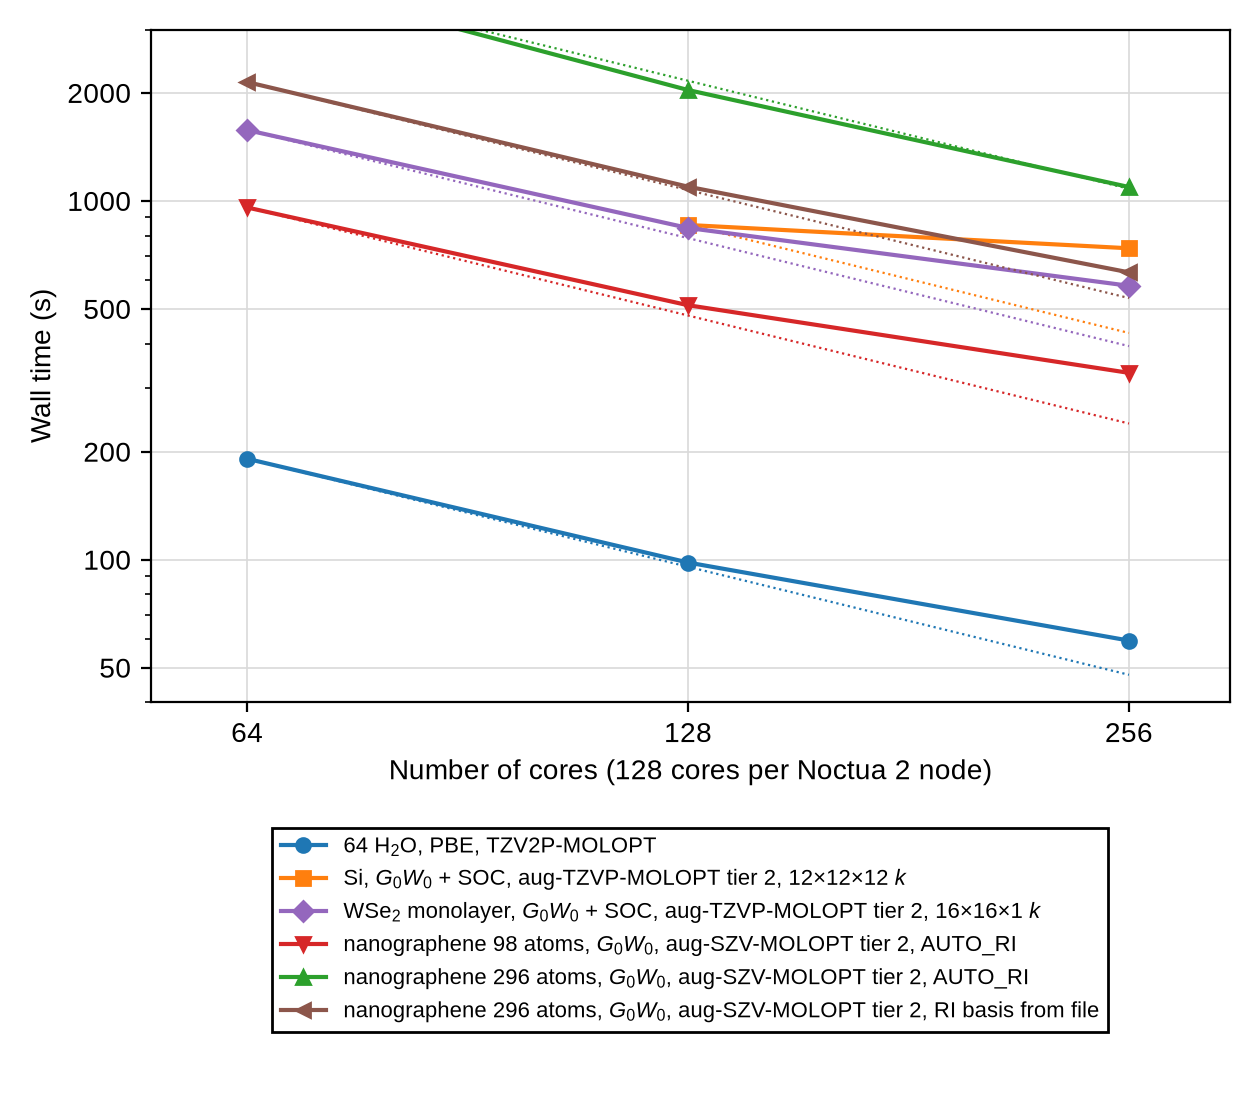
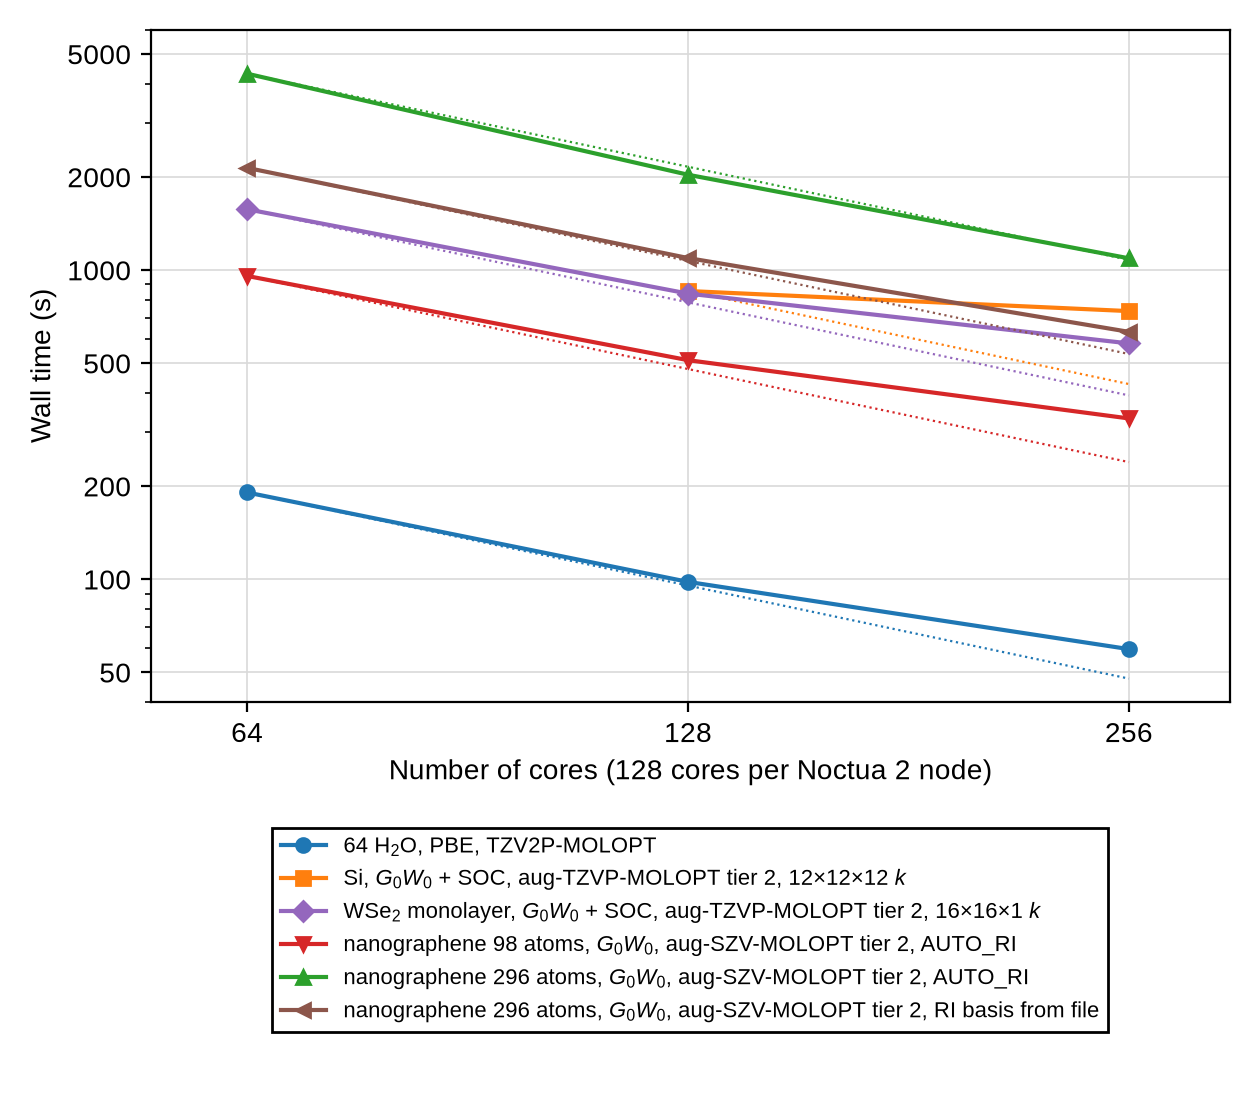
Scaling figure: y axis up to 6000 s for the half-node 296-atom run; caption for the dotted lines

diff --git a/scripts/plot_benchmarks.py b/scripts/plot_benchmarks.py
@@ -24,8 +24,8 @@ LEGEND = dict(frameon=True, fancybox=False, edgecolor="black", facecolor="white"
 
 CASES = [  # folder, label, colour, marker
     ("water_64_PBE_TZV2P", "64 H$_2$O, PBE, TZV2P-MOLOPT", "#1f77b4", "o"),
-    ("Si_GW_aug-TZ2", "Si, $G_0W_0$, aug-TZVP-MOLOPT tier 2, 12$\\times$12$\\times$12 $k$", "#ff7f0e", "s"),
-    ("WSe2_monolayer_GW_aug-TZ2", "WSe$_2$ monolayer, $G_0W_0$, aug-TZVP-MOLOPT tier 2, 16$\\times$16$\\times$1 $k$", "#9467bd", "D"),
+    ("Si_GW_aug-TZ2", "Si, $G_0W_0$ + SOC, aug-TZVP-MOLOPT tier 2, 12$\\times$12$\\times$12 $k$", "#ff7f0e", "s"),
+    ("WSe2_monolayer_GW_aug-TZ2", "WSe$_2$ monolayer, $G_0W_0$ + SOC, aug-TZVP-MOLOPT tier 2, 16$\\times$16$\\times$1 $k$", "#9467bd", "D"),
     ("nanographene_L5_GW_aug-SZ2", "nanographene 98 atoms, $G_0W_0$, aug-SZV-MOLOPT tier 2, AUTO_RI", "#d62728", "v"),
     ("nanographene_L16_GW_aug-SZ2_autoRI", "nanographene 296 atoms, $G_0W_0$, aug-SZV-MOLOPT tier 2, AUTO_RI", "#2ca02c", "^"),
     ("nanographene_L16_GW_aug-SZ2", "nanographene 296 atoms, $G_0W_0$, aug-SZV-MOLOPT tier 2, RI basis from file", "#8c564b", "<"),
@@ -39,7 +39,7 @@ STEPS = {
                      ("$\\chi$", ["get_mat_chi_Gamma_tau"]), ("$W$", ["compute_W"]),
                      ("$\\mathit{\\Sigma}$ and QP energies", ["compute_Sigma_c_and_QP_energie"])],
     "periodic GW": [("SCF", ["scf_env_do_scf"]), ("RI-RS grid optimization", ["optimize_ri_rs_grid"]),
-                    ("RI-RS matrix $Z_{\\ell P}$", ["prepare_ri_rs", "-optimize_ri_rs_grid"]),
+                    ("RI-RS matrix $Z_{lP}$", ["prepare_ri_rs", "-optimize_ri_rs_grid"]),
                     ("$\\chi$", ["compute_chi"]), ("$W$", ["compute_W0"]),
                     ("$\\mathit{\\Sigma}$ and QP energies", ["compute_Sigma_x", "compute_Sigma_c_and_QP"]),
                     ("SOC and band output", ["soc", "eval_bandstructure_properties"])],
@@ -72,6 +72,8 @@ def timing_report(path):
 def memory_failure(run_dir):
     """True if the run was killed for memory or stopped by a CP2K memory check."""
     text = ""
+    if not os.path.isdir(run_dir):
+        return False
     for name in ("output.out", "cp2k.stderr") + tuple(f for f in os.listdir(run_dir) if f.startswith("slurm-")):
         path = os.path.join(run_dir, name)
         if os.path.exists(path):
@@ -112,7 +114,7 @@ ax.yaxis.set_major_locator(FixedLocator(yt))
 ax.yaxis.set_major_formatter(matplotlib.ticker.FuncFormatter(lambda v, _: "%d" % v))
 ax.yaxis.set_minor_formatter(NullFormatter())
 ax.set_xlim(55, 300)
-ax.set_ylim(20, 10000)
+ax.set_ylim(40, 6000)
 ax.set_xlabel("Number of cores (128 cores per Noctua 2 node)")
 ax.set_ylabel("Wall time (s)")
 ax.grid(True, which="major", color="0.85", lw=0.6)

diff --git a/README.md b/README.md
@@ -17,6 +17,8 @@ for porting to GPUs. Each table entry is the CP2K wall time in seconds and links
 
 ![Strong scaling](figures/fig_scaling.png)
 
+Wall time against the number of cores; dotted lines: ideal scaling from the smallest run.
+
 ## Machine, code, run setup
 
 - Noctua 2, partition `normal`: 2× AMD EPYC 7763 per node, 128 cores, 256 GB RAM per node.
